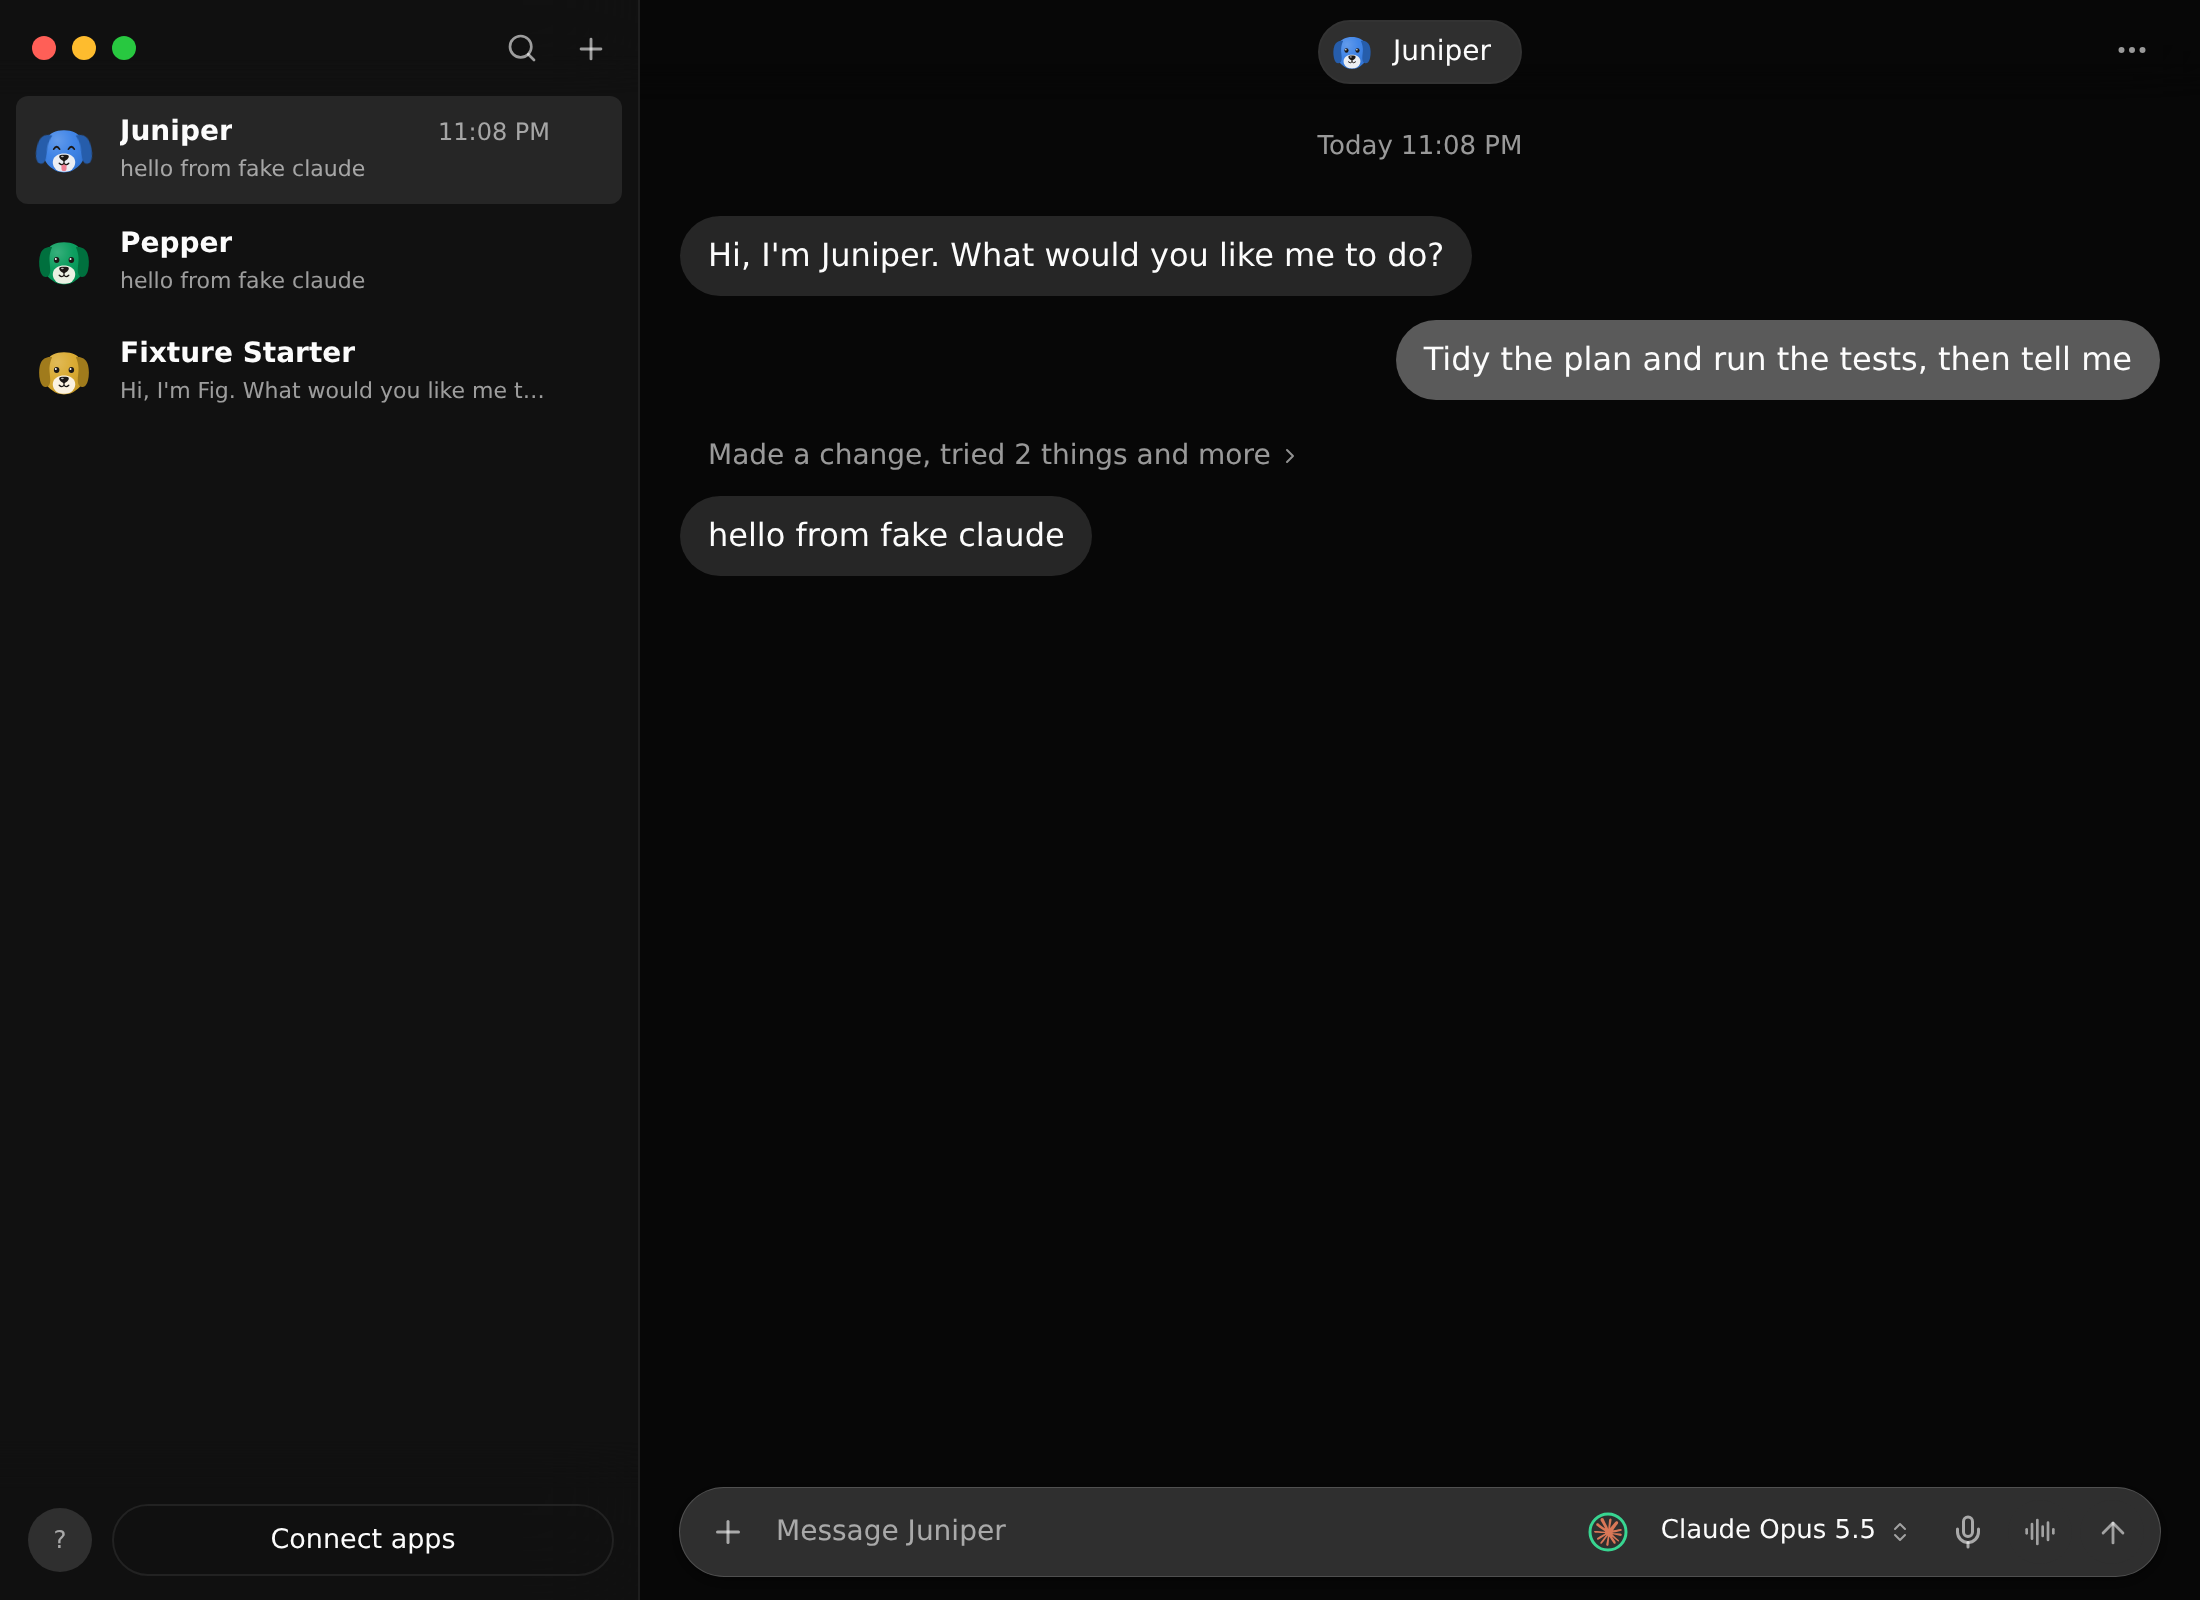
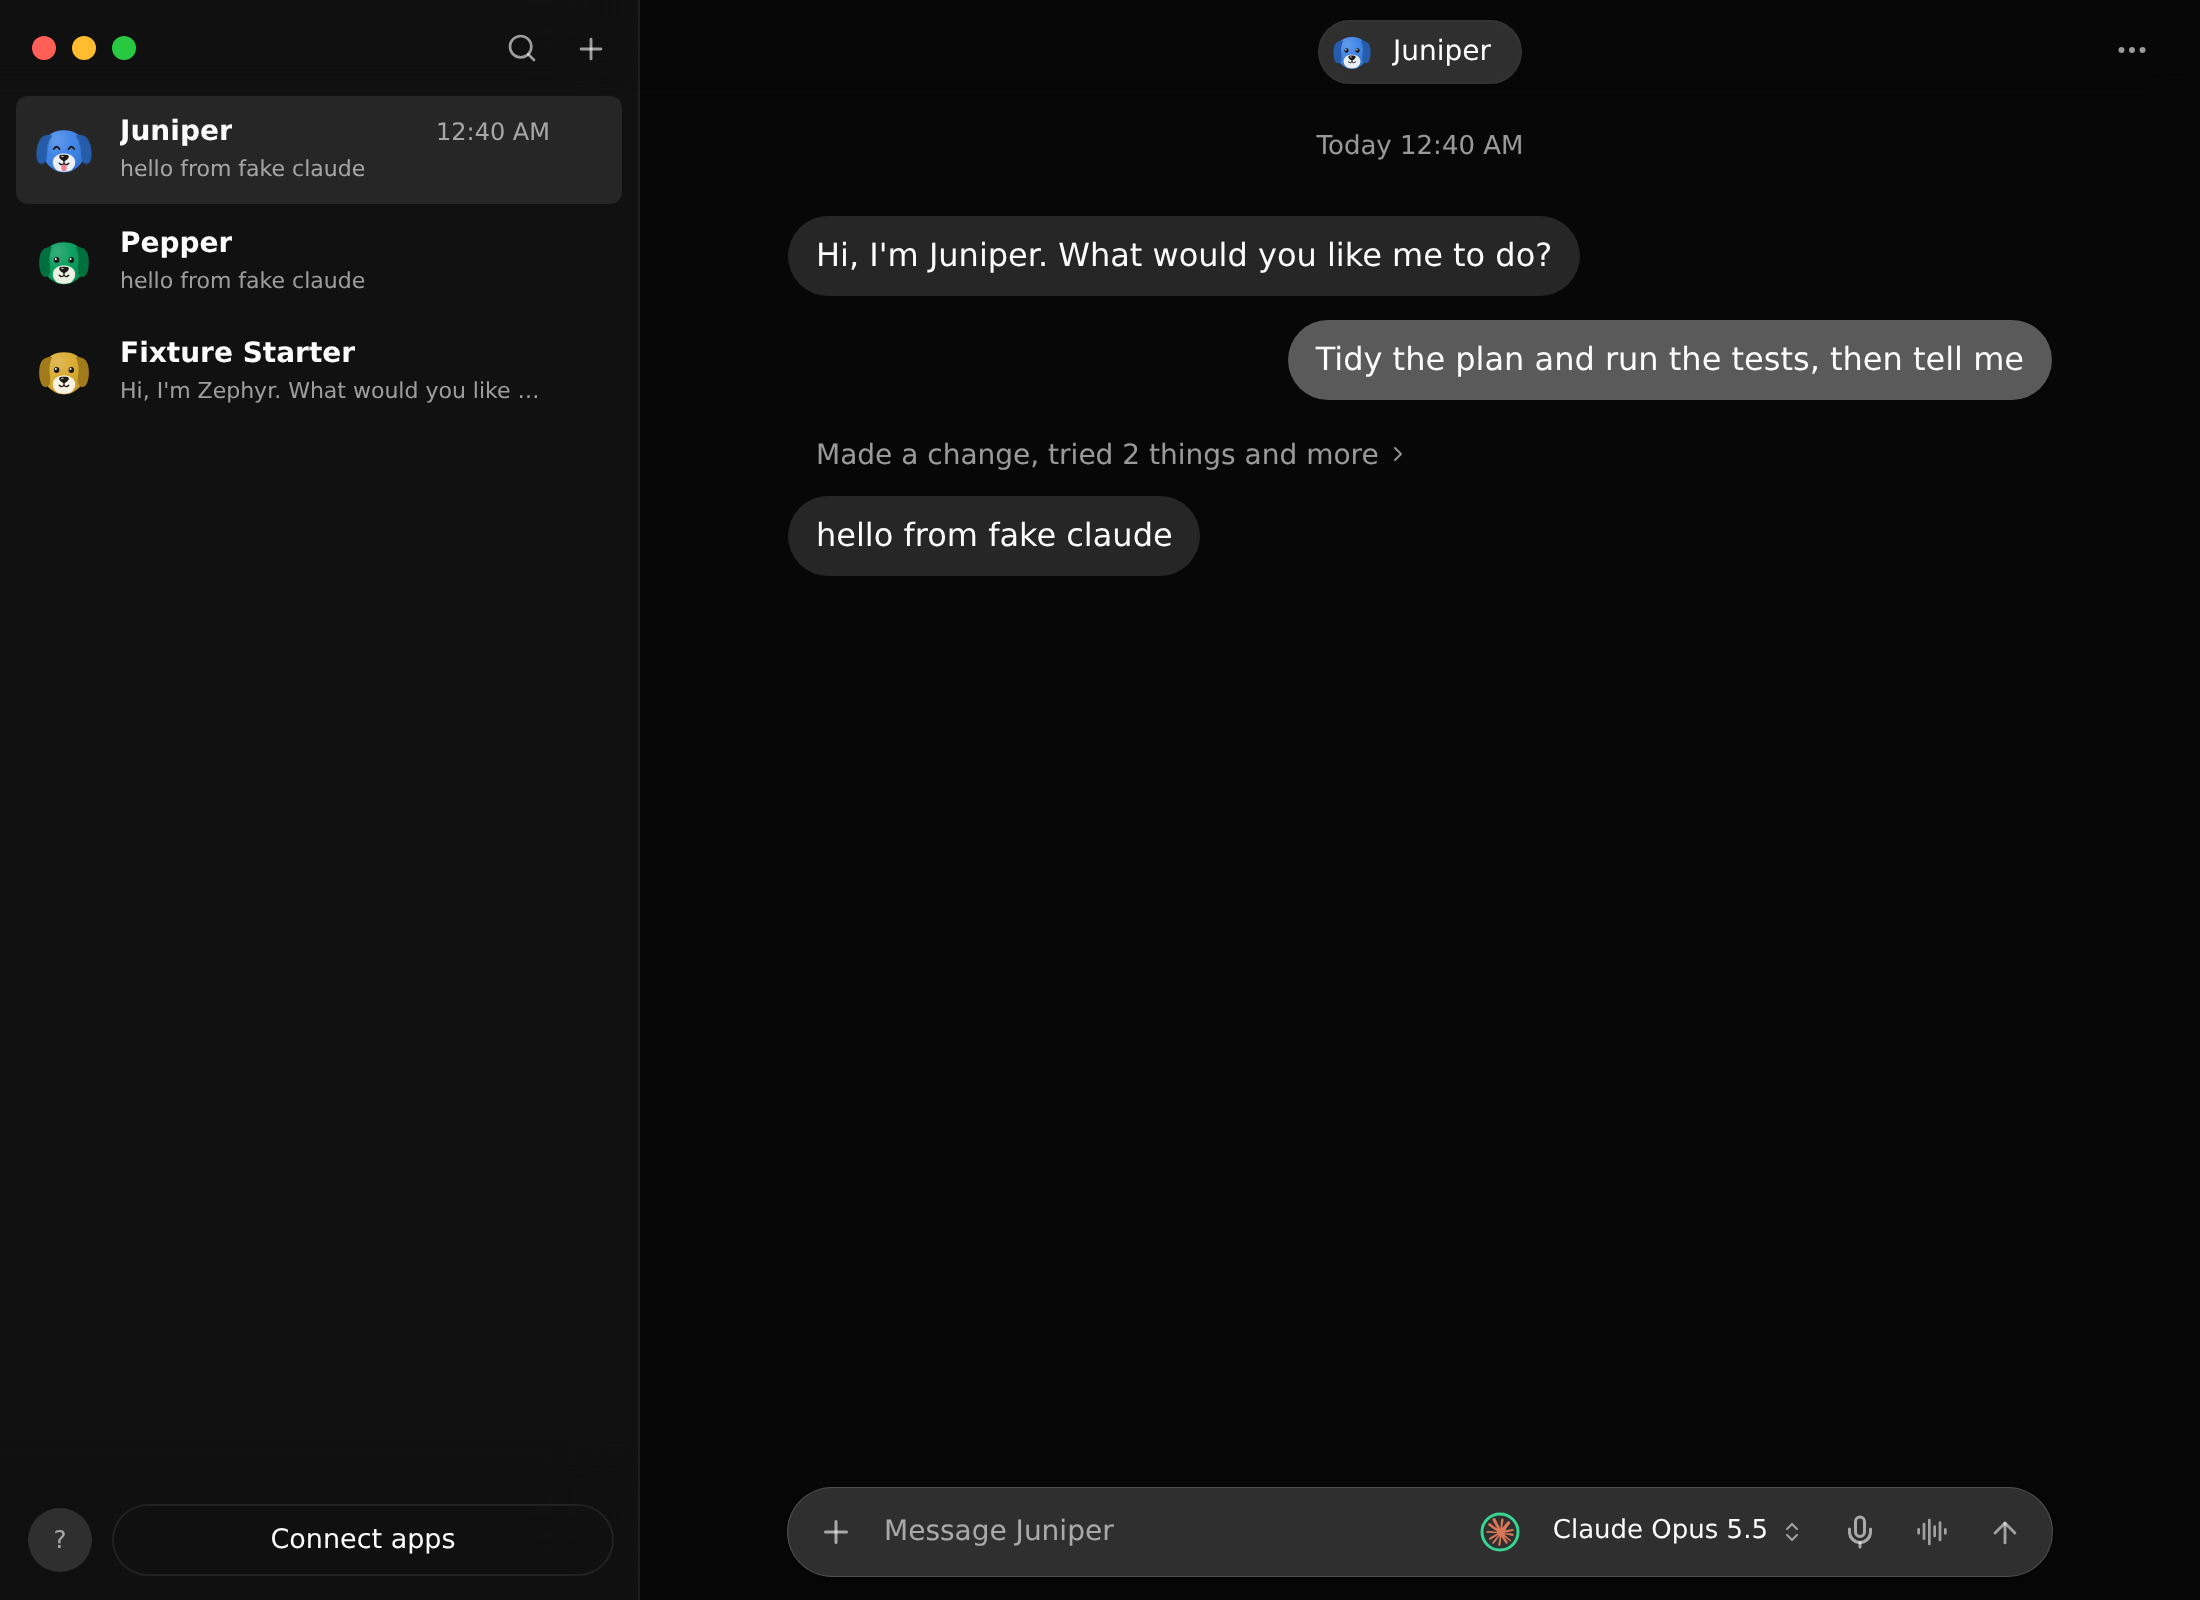
Captures for the desk-chat lane at 086dc1d: centred column, panel open and closed

diff --git a/README.md b/README.md
@@ -1,4 +1,4 @@
-Captures for the desk-chat lane (parity/desk-chat), made by scripts/testing/parity-chat-shots.ts at b206606 with desk-panel merged (the first set, at 45a1610, is the previous commit) on a Linux cloud computer, 1100x800 at scale 2, Daylight and Midnight, on the isolated fixture with a scripted turn (a Read, an Edit, a failing Bash and a slow Bash). Not for merging.
+Captures for the desk-chat lane (parity/desk-chat), made by scripts/testing/parity-chat-shots.ts at 086dc1d on a Linux cloud computer, 1100x800 at scale 2, Daylight and Midnight, on the isolated fixture with a scripted turn (a Read, an Edit, a failing Bash and a slow Bash), with desk-panel merged, the centred 632 column, and the panel open and closed. Earlier sets are in this branch's history. Not for merging.
 
 - during-1100-*: the working line while the slow step runs
 - during-panel-1100-*: the panel opened from the working line
